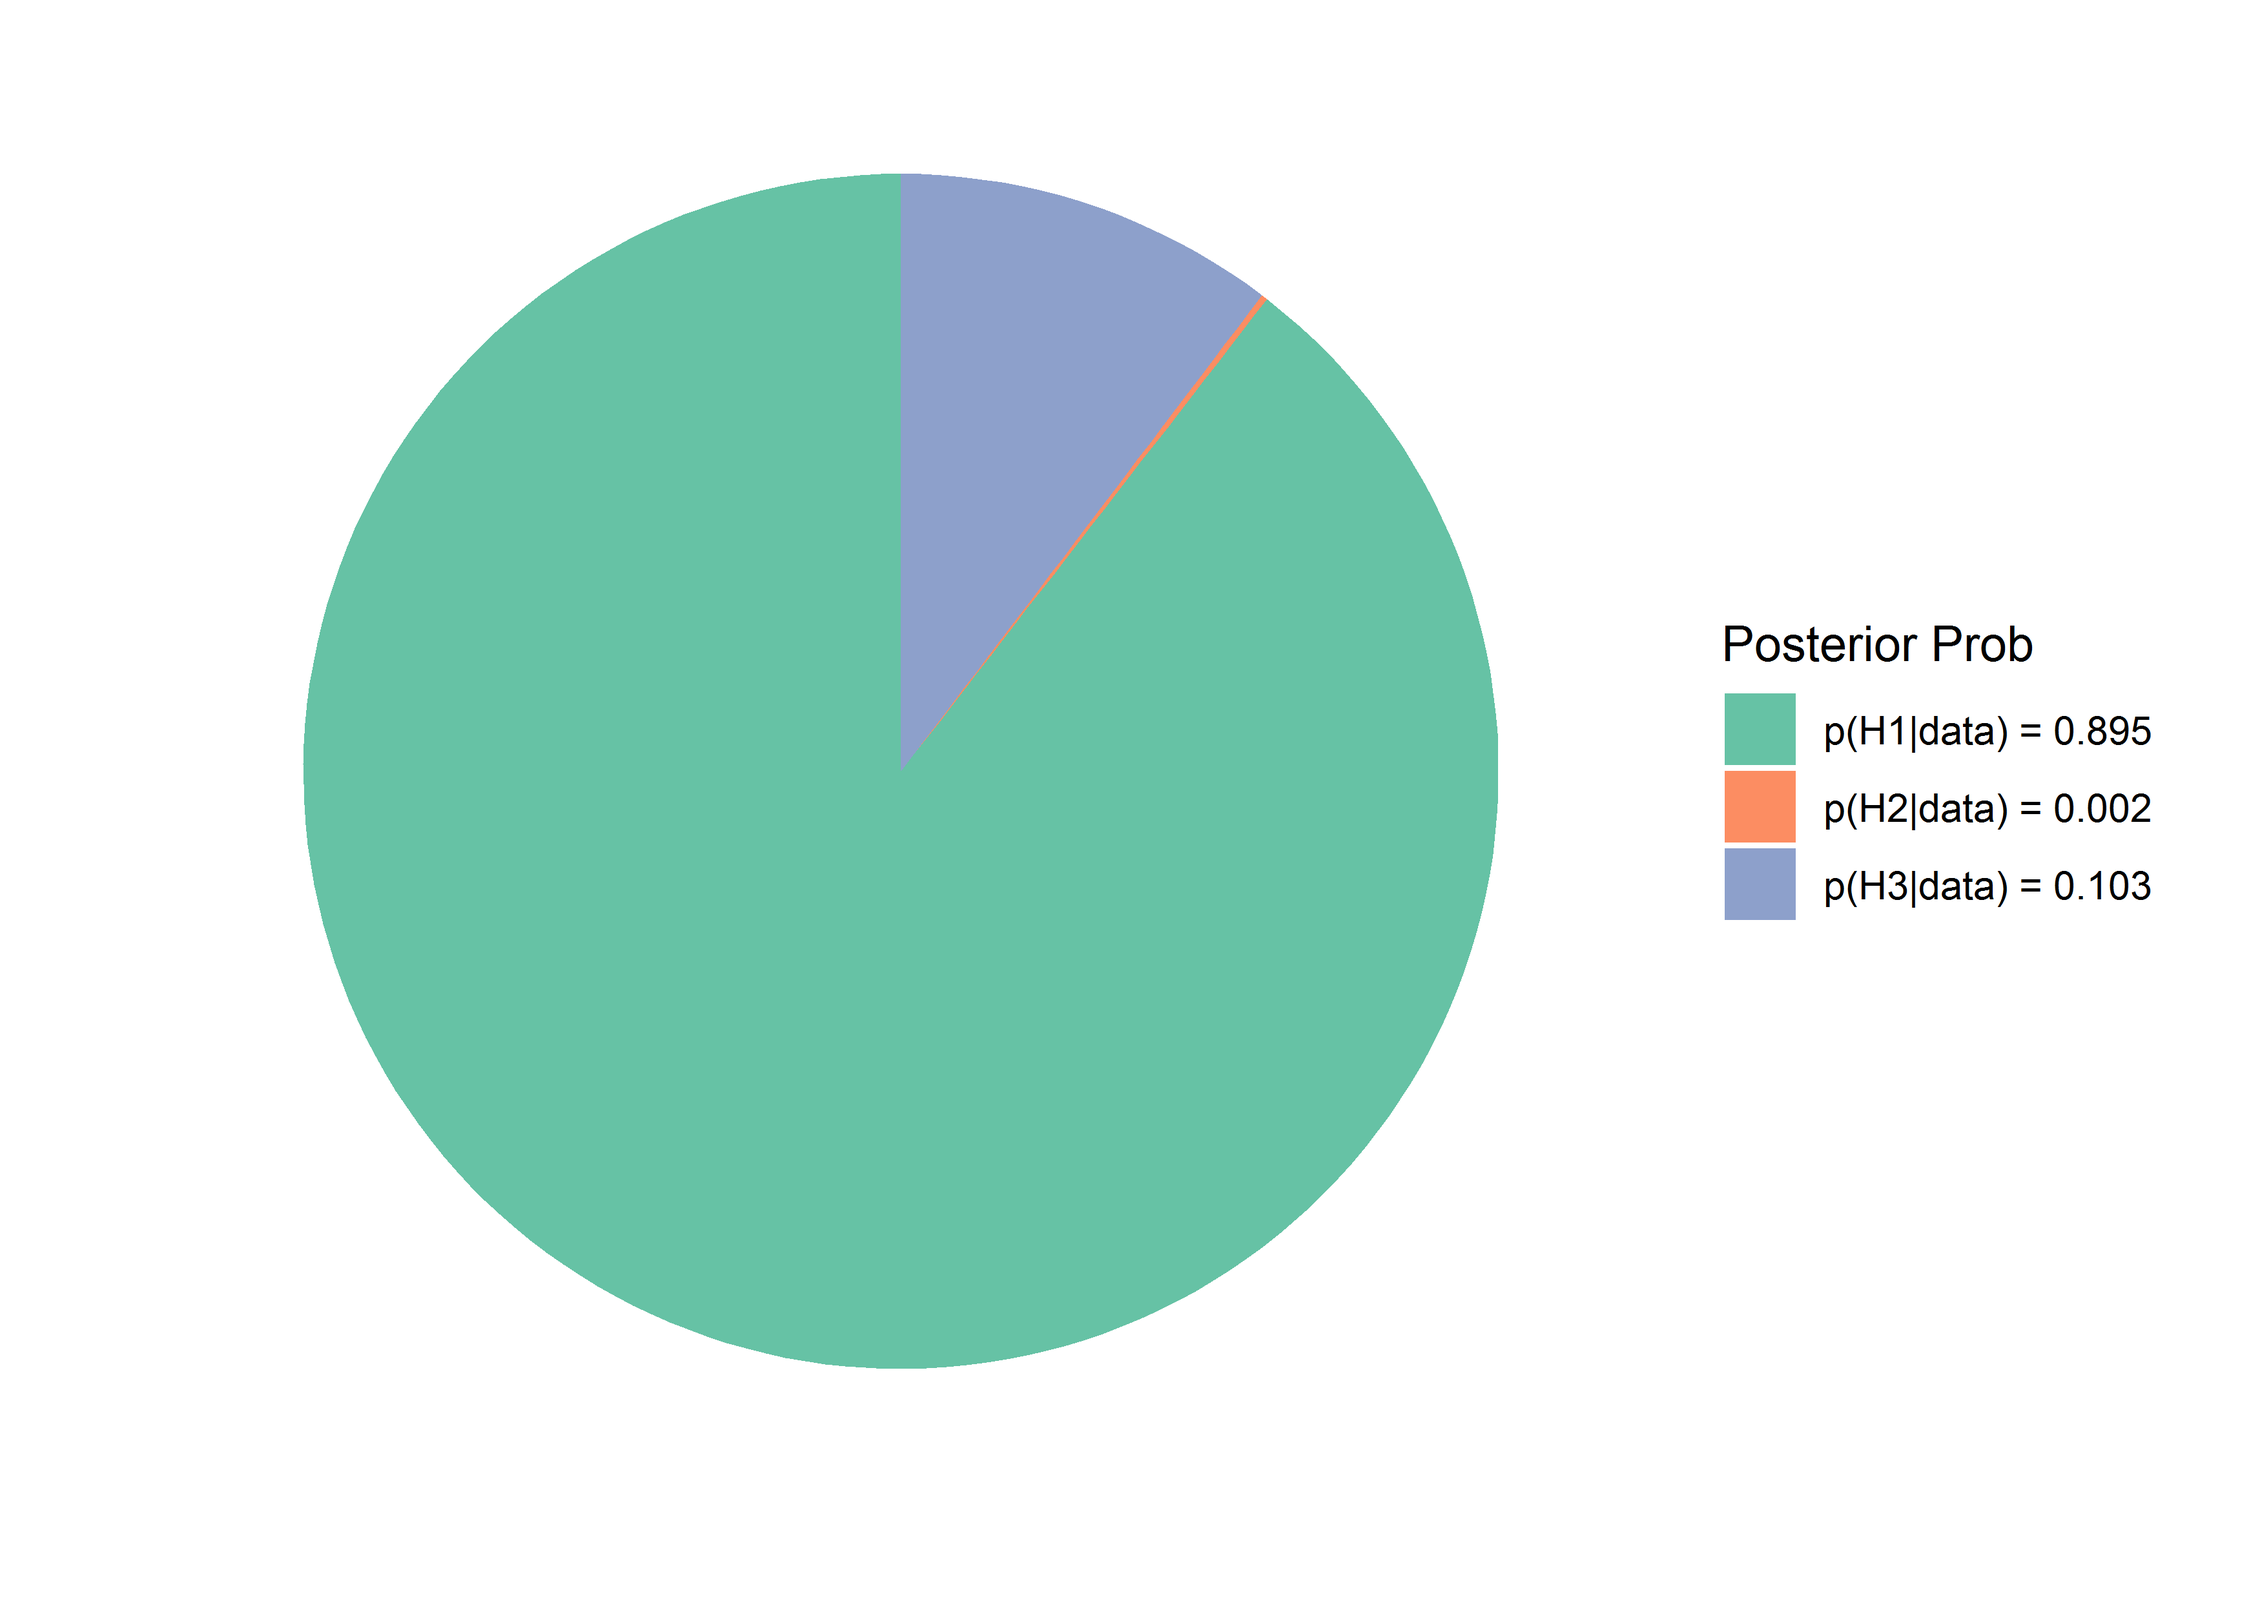
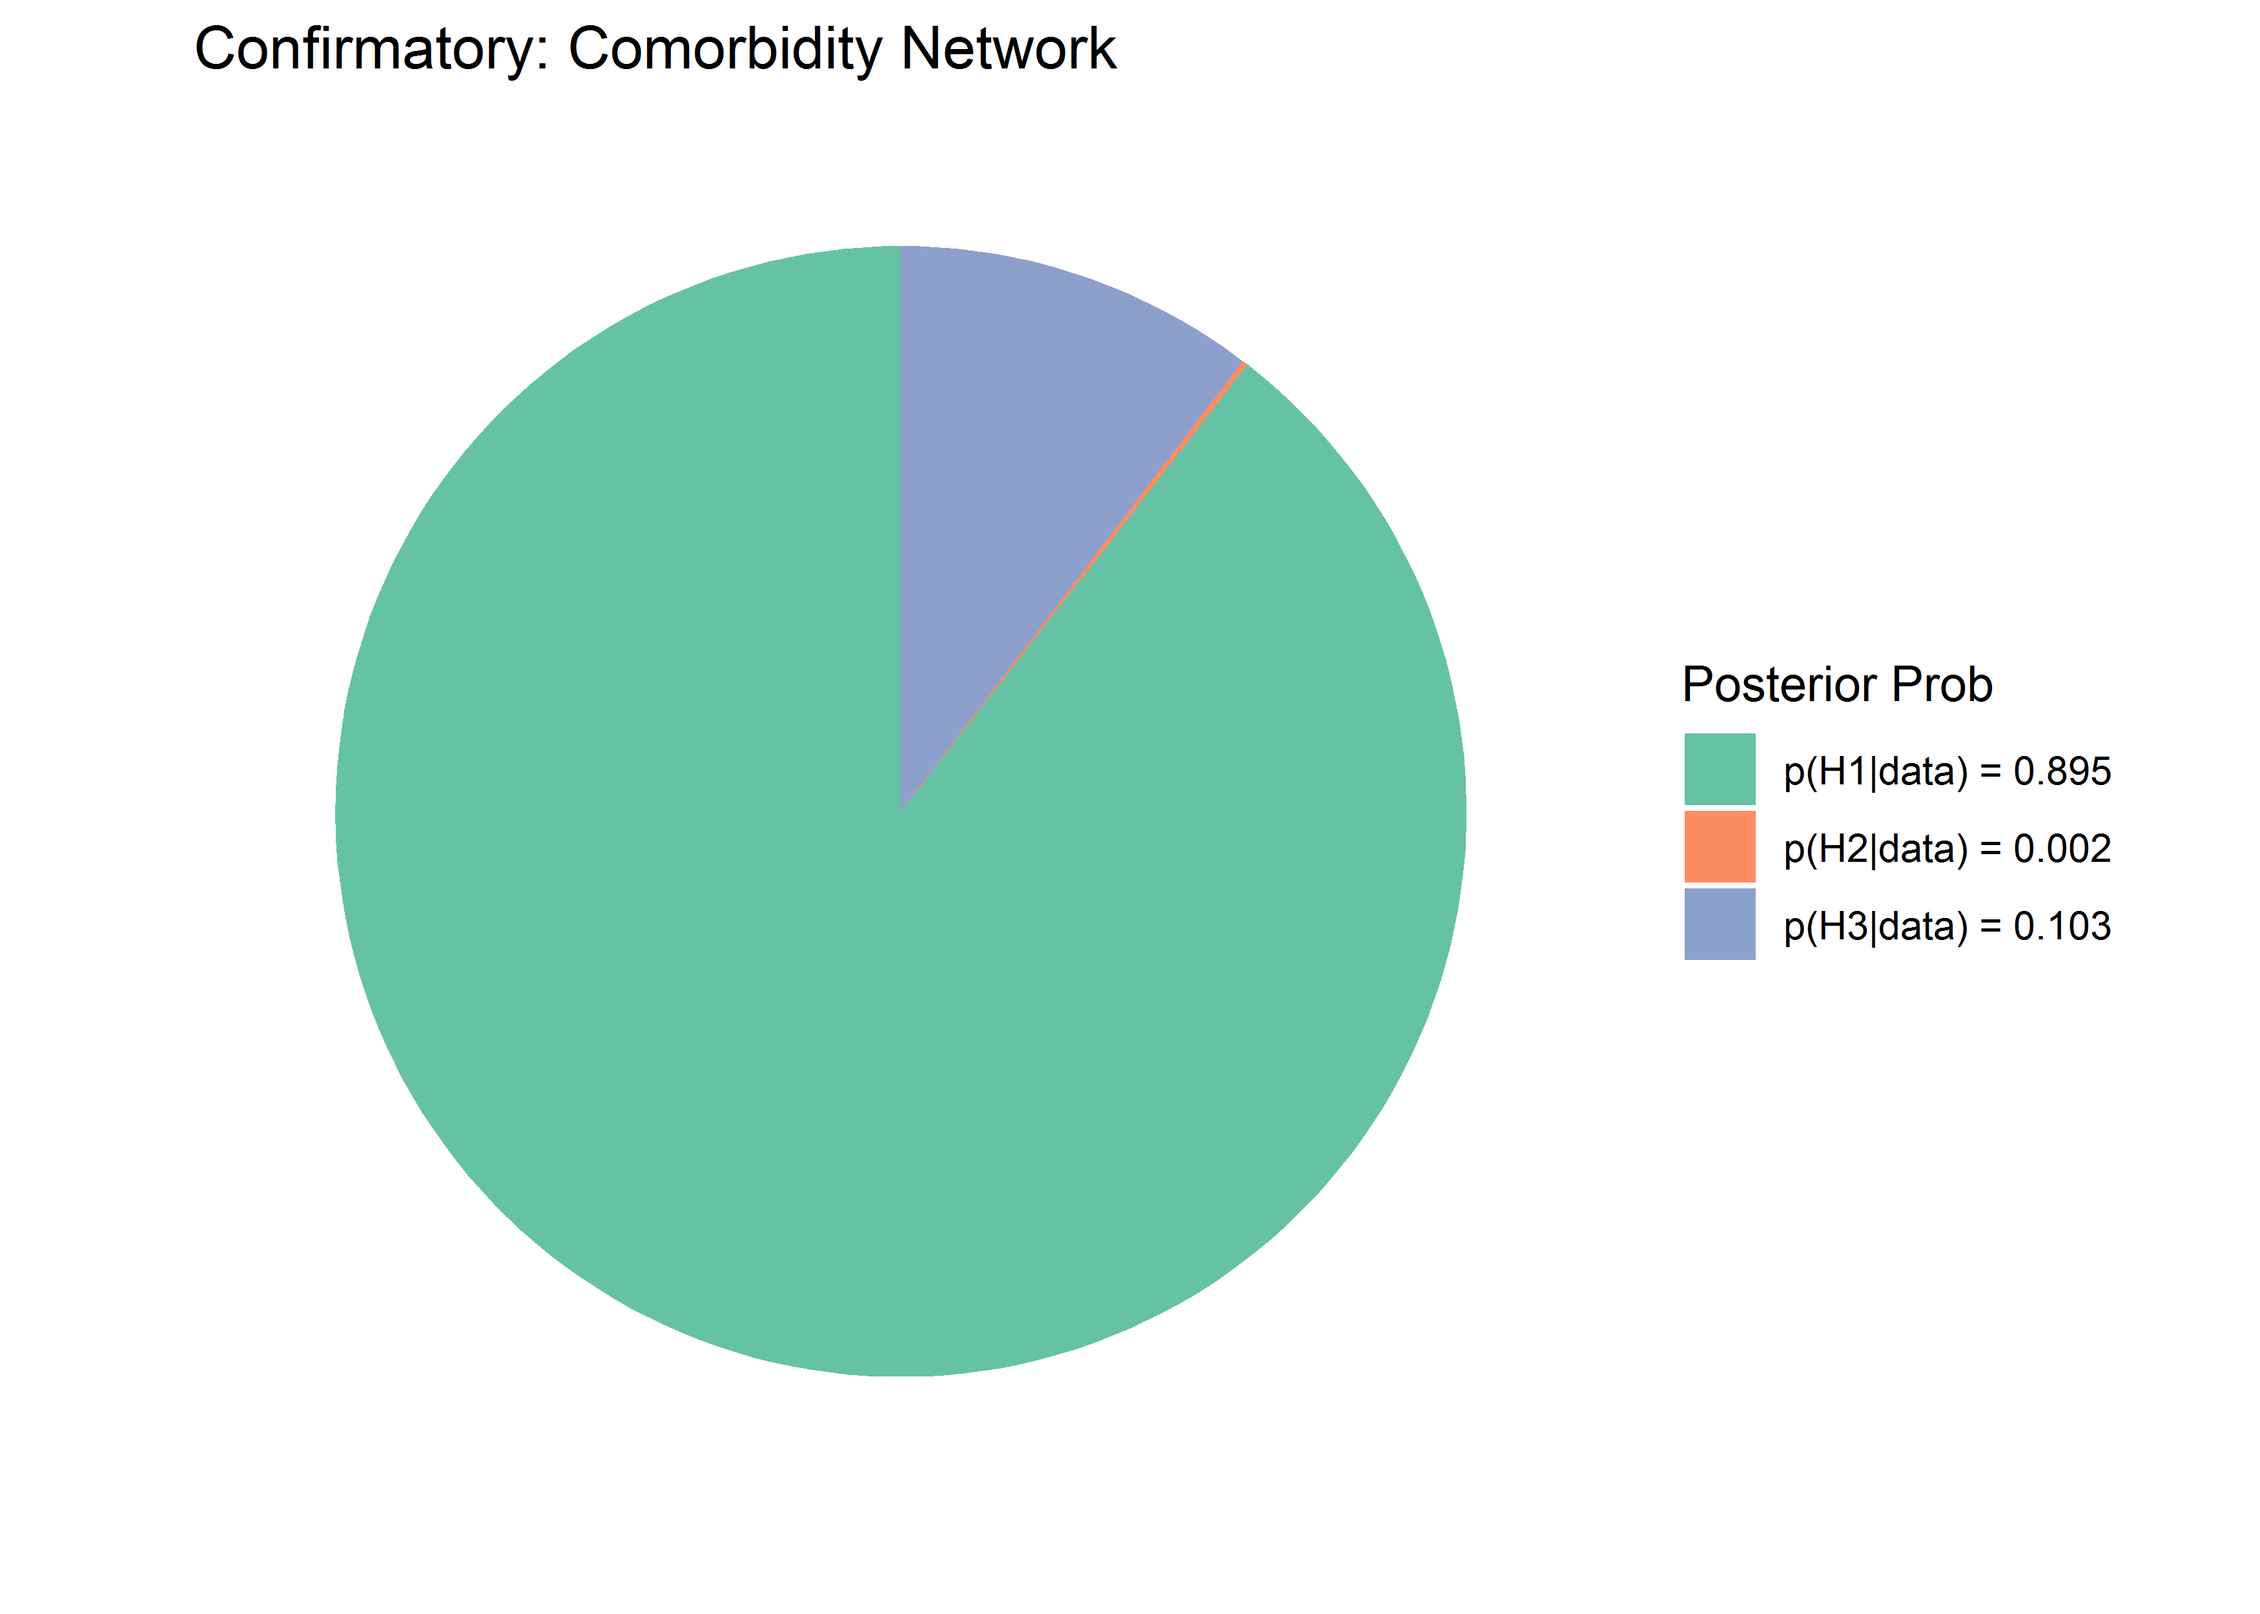
turn off warning for the pie chart of the first

diff --git a/README.md b/README.md
@@ -376,9 +376,8 @@ Finally, the results can be plotted
 ``` r
 plot(fit) + 
   scale_fill_brewer(palette = "Set2", 
-                    name = "Posterior Prob")
-#> Scale for 'fill' is already present. Adding another scale for 'fill', which
-#> will replace the existing scale.
+                    name = "Posterior Prob") +
+  ggtitle("Confirmatory: Comorbidity Network")
 ```
 
 <img src="joss_paperunnamed-chunk-18-1.png" width="65%" style="display: block; margin: auto;" />
